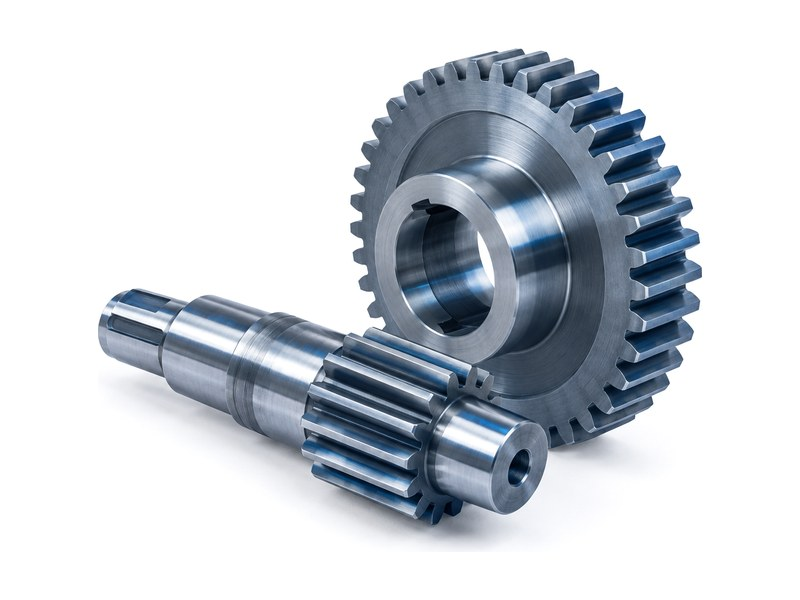
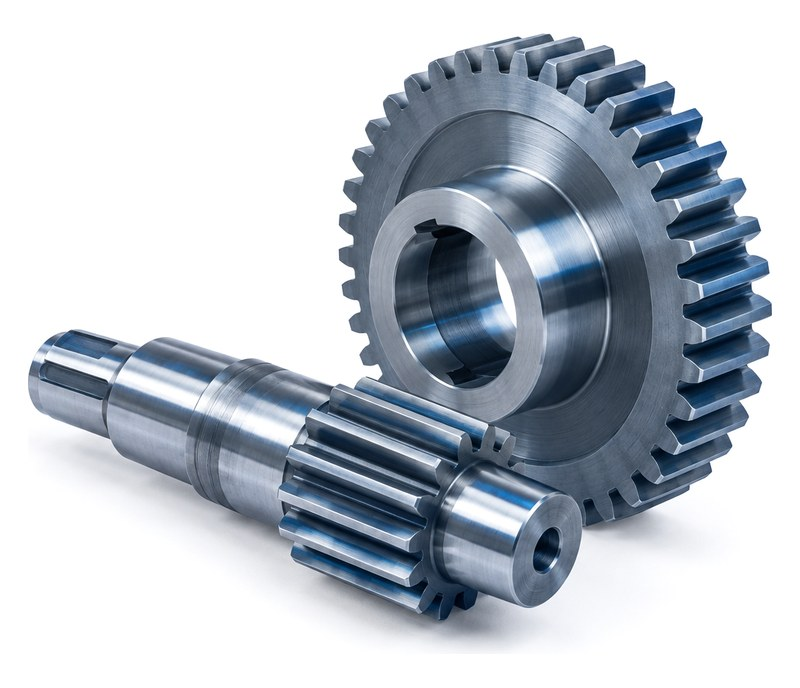
Главная: карточки «Мы изготавливаем» как в макете клиента — металлический фон с бликами, крупнее детали

diff --git a/index.html b/index.html
@@ -166,23 +166,23 @@
         </div>
         <div class="make-grid" data-reveal-group>
           <a class="make-card" href="catalog.html#hydraulics" data-reveal>
-            <div class="make-card__photo"><img src="img/products/card/01-uplotneniya.jpg" alt="Уплотнительные кольца и манжеты из резины и полиуретана" width="800" height="600" loading="lazy"></div>
+            <div class="make-card__photo"><img src="img/products/card/01-uplotneniya.jpg" alt="Уплотнительные кольца и манжеты из резины и полиуретана" width="800" height="688" loading="lazy"></div>
             <div class="make-card__body"><h3 class="make-card__title" data-i18n="make.1.title">Уплотнения, ремкомплекты, РВД, гидроцилиндры</h3><p class="make-card__sub" data-i18n="make.1.sub">Для гидравлики горной и строительной техники</p></div>
           </a>
           <a class="make-card" href="catalog.html#materials" data-reveal>
-            <div class="make-card__photo"><img src="img/products/card/04-poliuretan-rezina-metall.jpg" alt="Подшипники, полиуретановая втулка и резиновая манжета" width="800" height="600" loading="lazy"></div>
+            <div class="make-card__photo"><img src="img/products/card/04-poliuretan-rezina-metall.jpg" alt="Подшипники, полиуретановая втулка и резиновая манжета" width="800" height="688" loading="lazy"></div>
             <div class="make-card__body"><h3 class="make-card__title" data-i18n="make.2.title">Изделия из полиуретана, резины и металла</h3><p class="make-card__sub" data-i18n="make.2.sub">Серийно и штучно, по чертежам заказчика</p></div>
           </a>
           <a class="make-card" href="analogs.html" data-reveal>
-            <div class="make-card__photo"><img src="img/products/card/05-analog-zapchasti.jpg" alt="Шестерня и вал-шестерня — аналоги запчастей" width="800" height="600" loading="lazy"></div>
+            <div class="make-card__photo"><img src="img/products/card/05-analog-zapchasti.jpg" alt="Шестерня и вал-шестерня — аналоги запчастей" width="800" height="688" loading="lazy"></div>
             <div class="make-card__body"><h3 class="make-card__title" data-i18n="make.3.title">Аналоги запчастей для горно-шахтного оборудования</h3><p class="make-card__sub" data-i18n="make.3.sub">Замена оригиналов CAT, Sandvik, Epiroc, Normet</p></div>
           </a>
           <a class="make-card" href="catalog.html#shotcrete" data-reveal>
-            <div class="make-card__photo"><img src="img/products/card/06-torkret-ustanovka.jpg" alt="Торкрет-установка с бункером на раме-салазках" width="800" height="600" loading="lazy"></div>
+            <div class="make-card__photo"><img src="img/products/card/06-torkret-ustanovka.jpg" alt="Торкрет-установка с бункером на раме-салазках" width="800" height="688" loading="lazy"></div>
             <div class="make-card__body"><h3 class="make-card__title" data-i18n="make.4.title">Торкрет-оборудование и комплектующие</h3><p class="make-card__sub" data-i18n="make.4.sub">Установки, запасные части, расходники</p></div>
           </a>
           <a class="make-card" href="#contacts" data-reveal>
-            <div class="make-card__photo"><img src="img/products/card/07-po-chertezham.jpg" alt="Точёные стальные детали по чертежам: вал, втулки, фланец" width="800" height="600" loading="lazy"></div>
+            <div class="make-card__photo"><img src="img/products/card/07-po-chertezham.jpg" alt="Точёные стальные детали по чертежам: вал, втулки, фланец" width="800" height="688" loading="lazy"></div>
             <div class="make-card__body"><h3 class="make-card__title" data-i18n="make.5.title">Изготовление по чертежам</h3><p class="make-card__sub" data-i18n="make.5.sub">Как передать чертёж или образец детали</p></div>
           </a>
         </div>

diff --git a/css/home.css b/css/home.css
@@ -100,11 +100,21 @@
   transition: transform 300ms var(--ease-out), box-shadow 300ms var(--ease-out);
 }
 .make-card:hover { transform: translateY(-4px); box-shadow: var(--shadow-card); }
-/* деталь «без фона»: белый фон картинки растворяется в карточке (multiply), под деталью — мягкое фирменное свечение */
+/* карточка — «шлифованный металл»: серебристый градиент с диагональными бликами и стеклянной обводкой */
+.make-card {
+  background:
+    linear-gradient(118deg,
+      rgba(255, 255, 255, 0) 16%, rgba(255, 255, 255, .95) 27%, rgba(255, 255, 255, 0) 38%,
+      rgba(255, 255, 255, 0) 54%, rgba(255, 255, 255, .85) 61%, rgba(255, 255, 255, 0) 68%,
+      rgba(255, 255, 255, 0) 80%, rgba(255, 255, 255, .75) 86%, rgba(255, 255, 255, 0) 92%),
+    linear-gradient(165deg, #E9EBEF 0%, #D2D6DC 48%, #DADDE2 78%, #CDD1D7 100%);
+  border: 1px solid rgba(255, 255, 255, .9);
+  box-shadow: inset 0 1px 0 rgba(255, 255, 255, .9), 0 10px 30px rgba(20, 35, 55, .08);
+}
+/* деталь «без фона»: белый фон картинки растворяется в металле карточки (multiply) */
 .make-card__photo {
-  aspect-ratio: 4 / 3; overflow: hidden;
-  padding: 14px 14px 0;
-  background: radial-gradient(ellipse 72% 62% at 50% 56%, var(--blue-100) 0%, rgba(230, 238, 245, 0) 72%), var(--white);
+  aspect-ratio: 1 / .86; overflow: hidden;
+  padding: 10px 8px 0;
 }
 .make-card__photo img {
   width: 100%; height: 100%; object-fit: contain;
